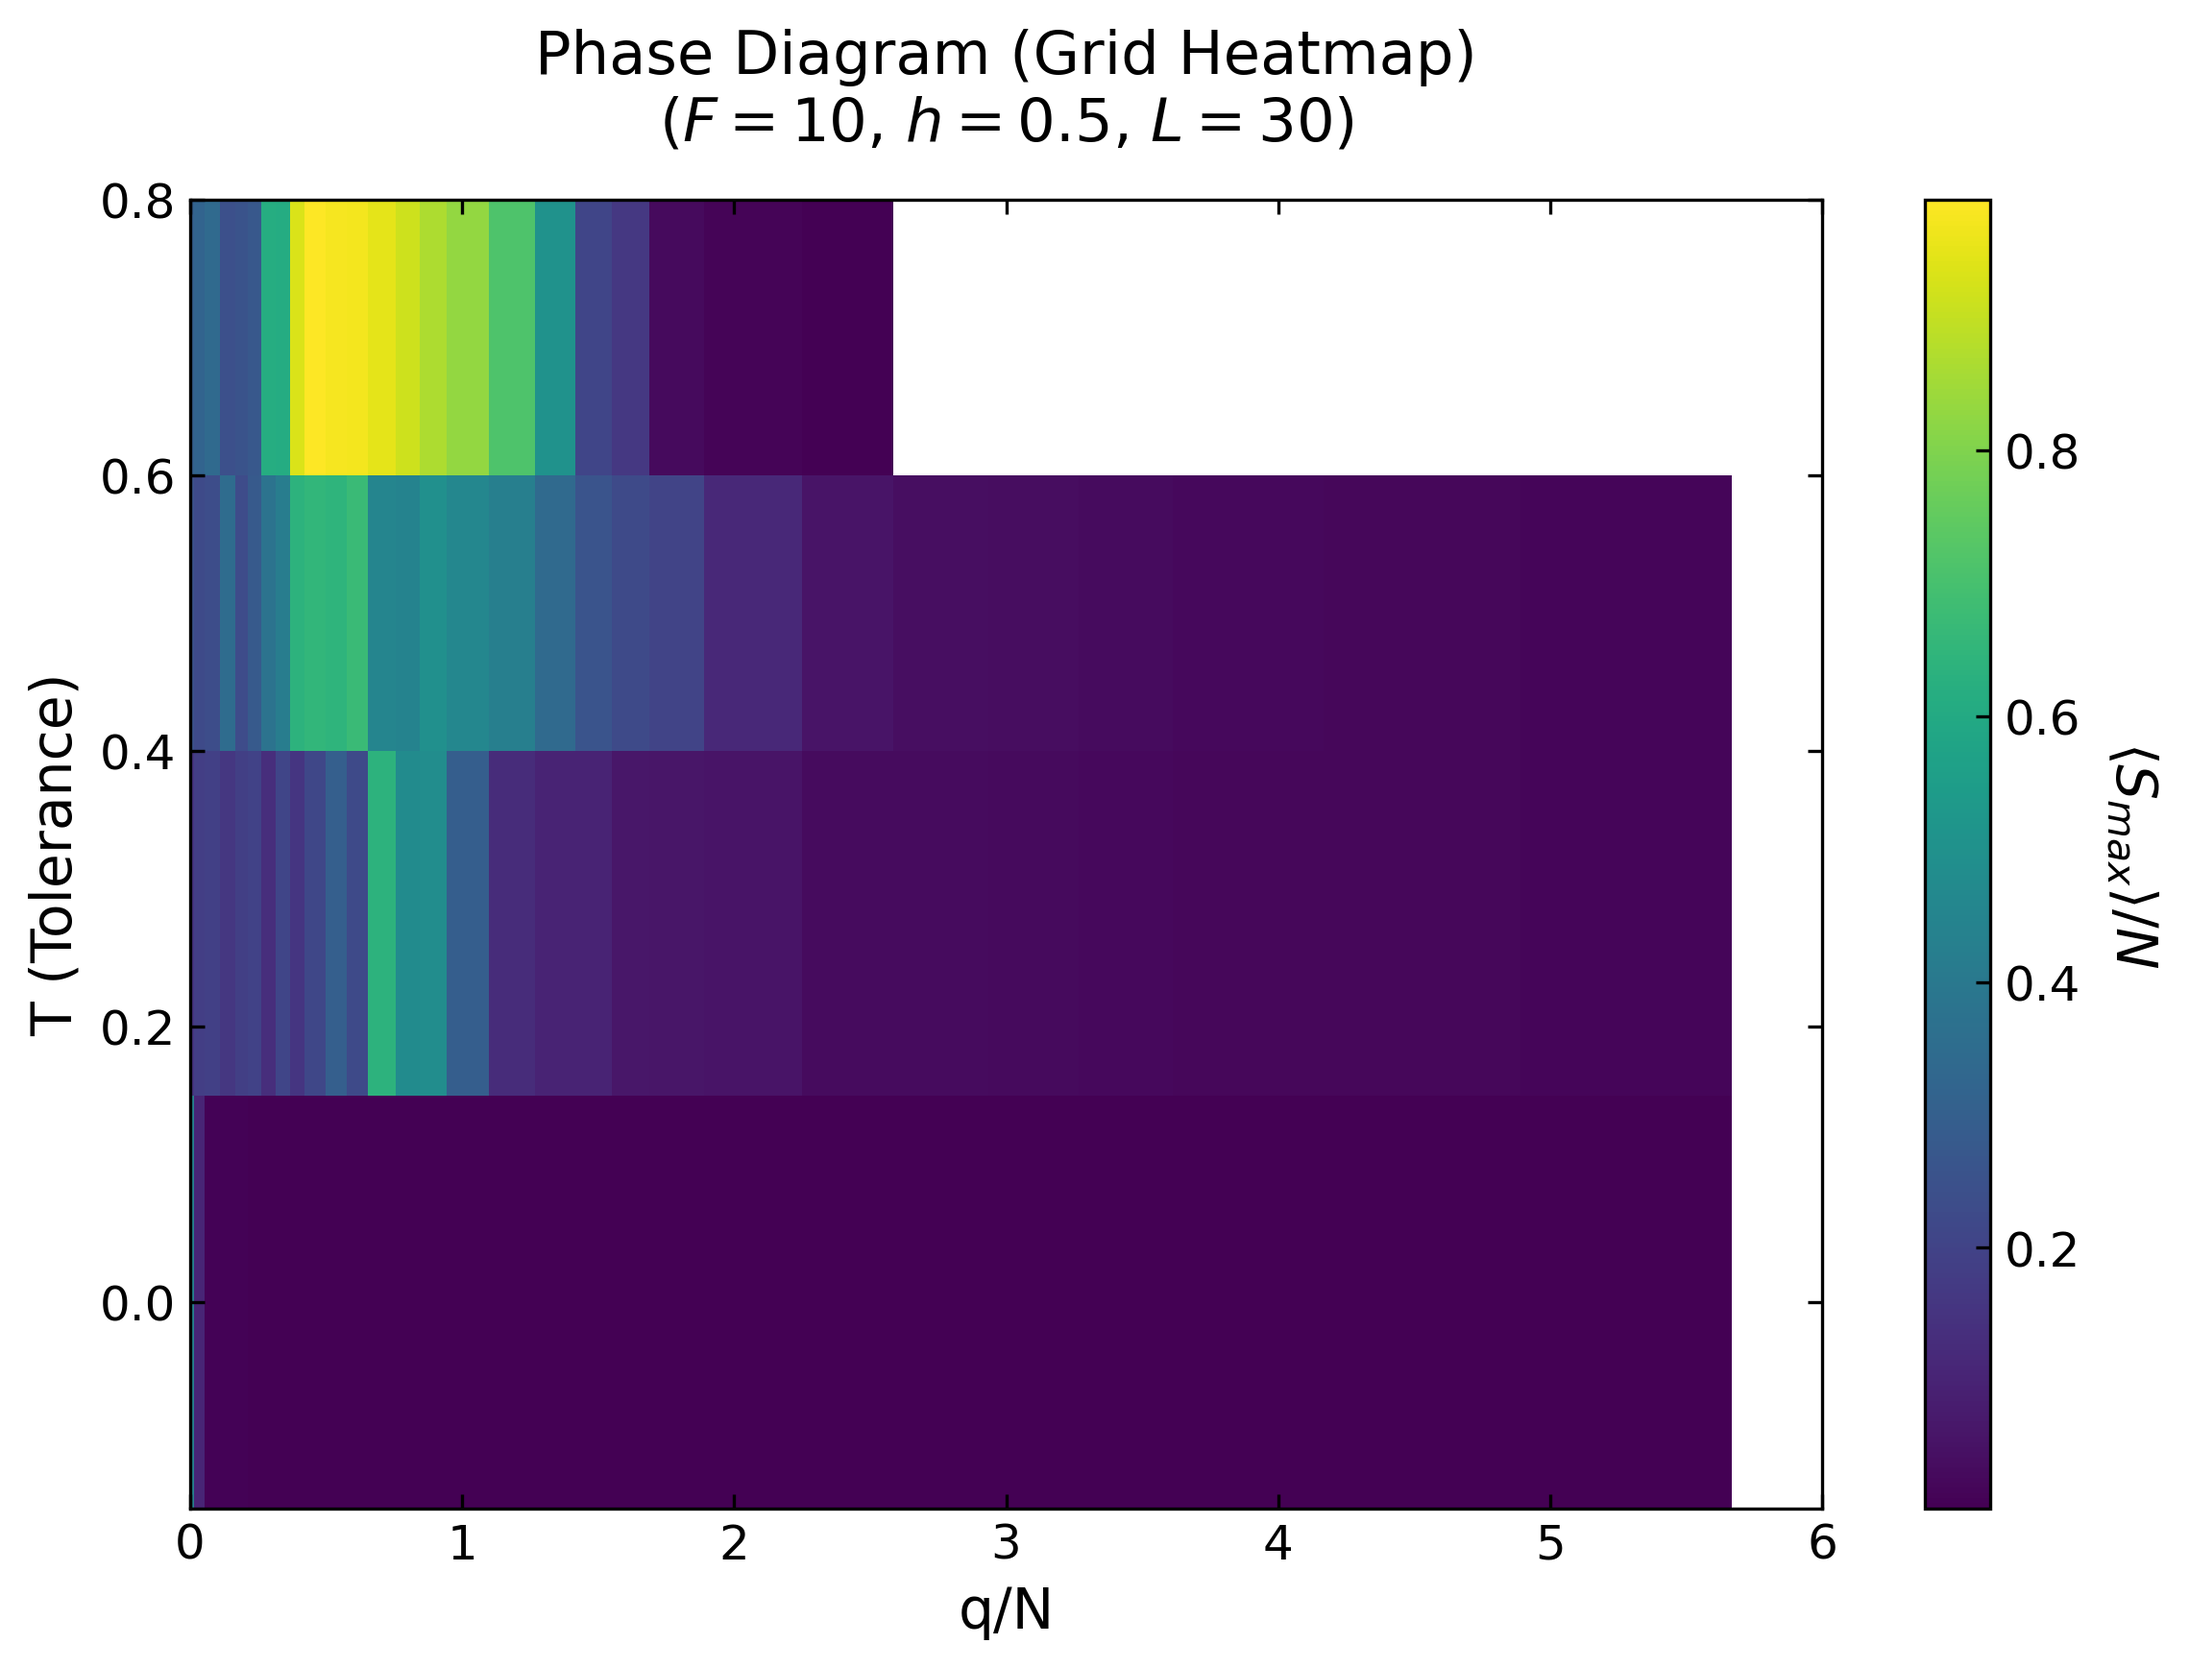
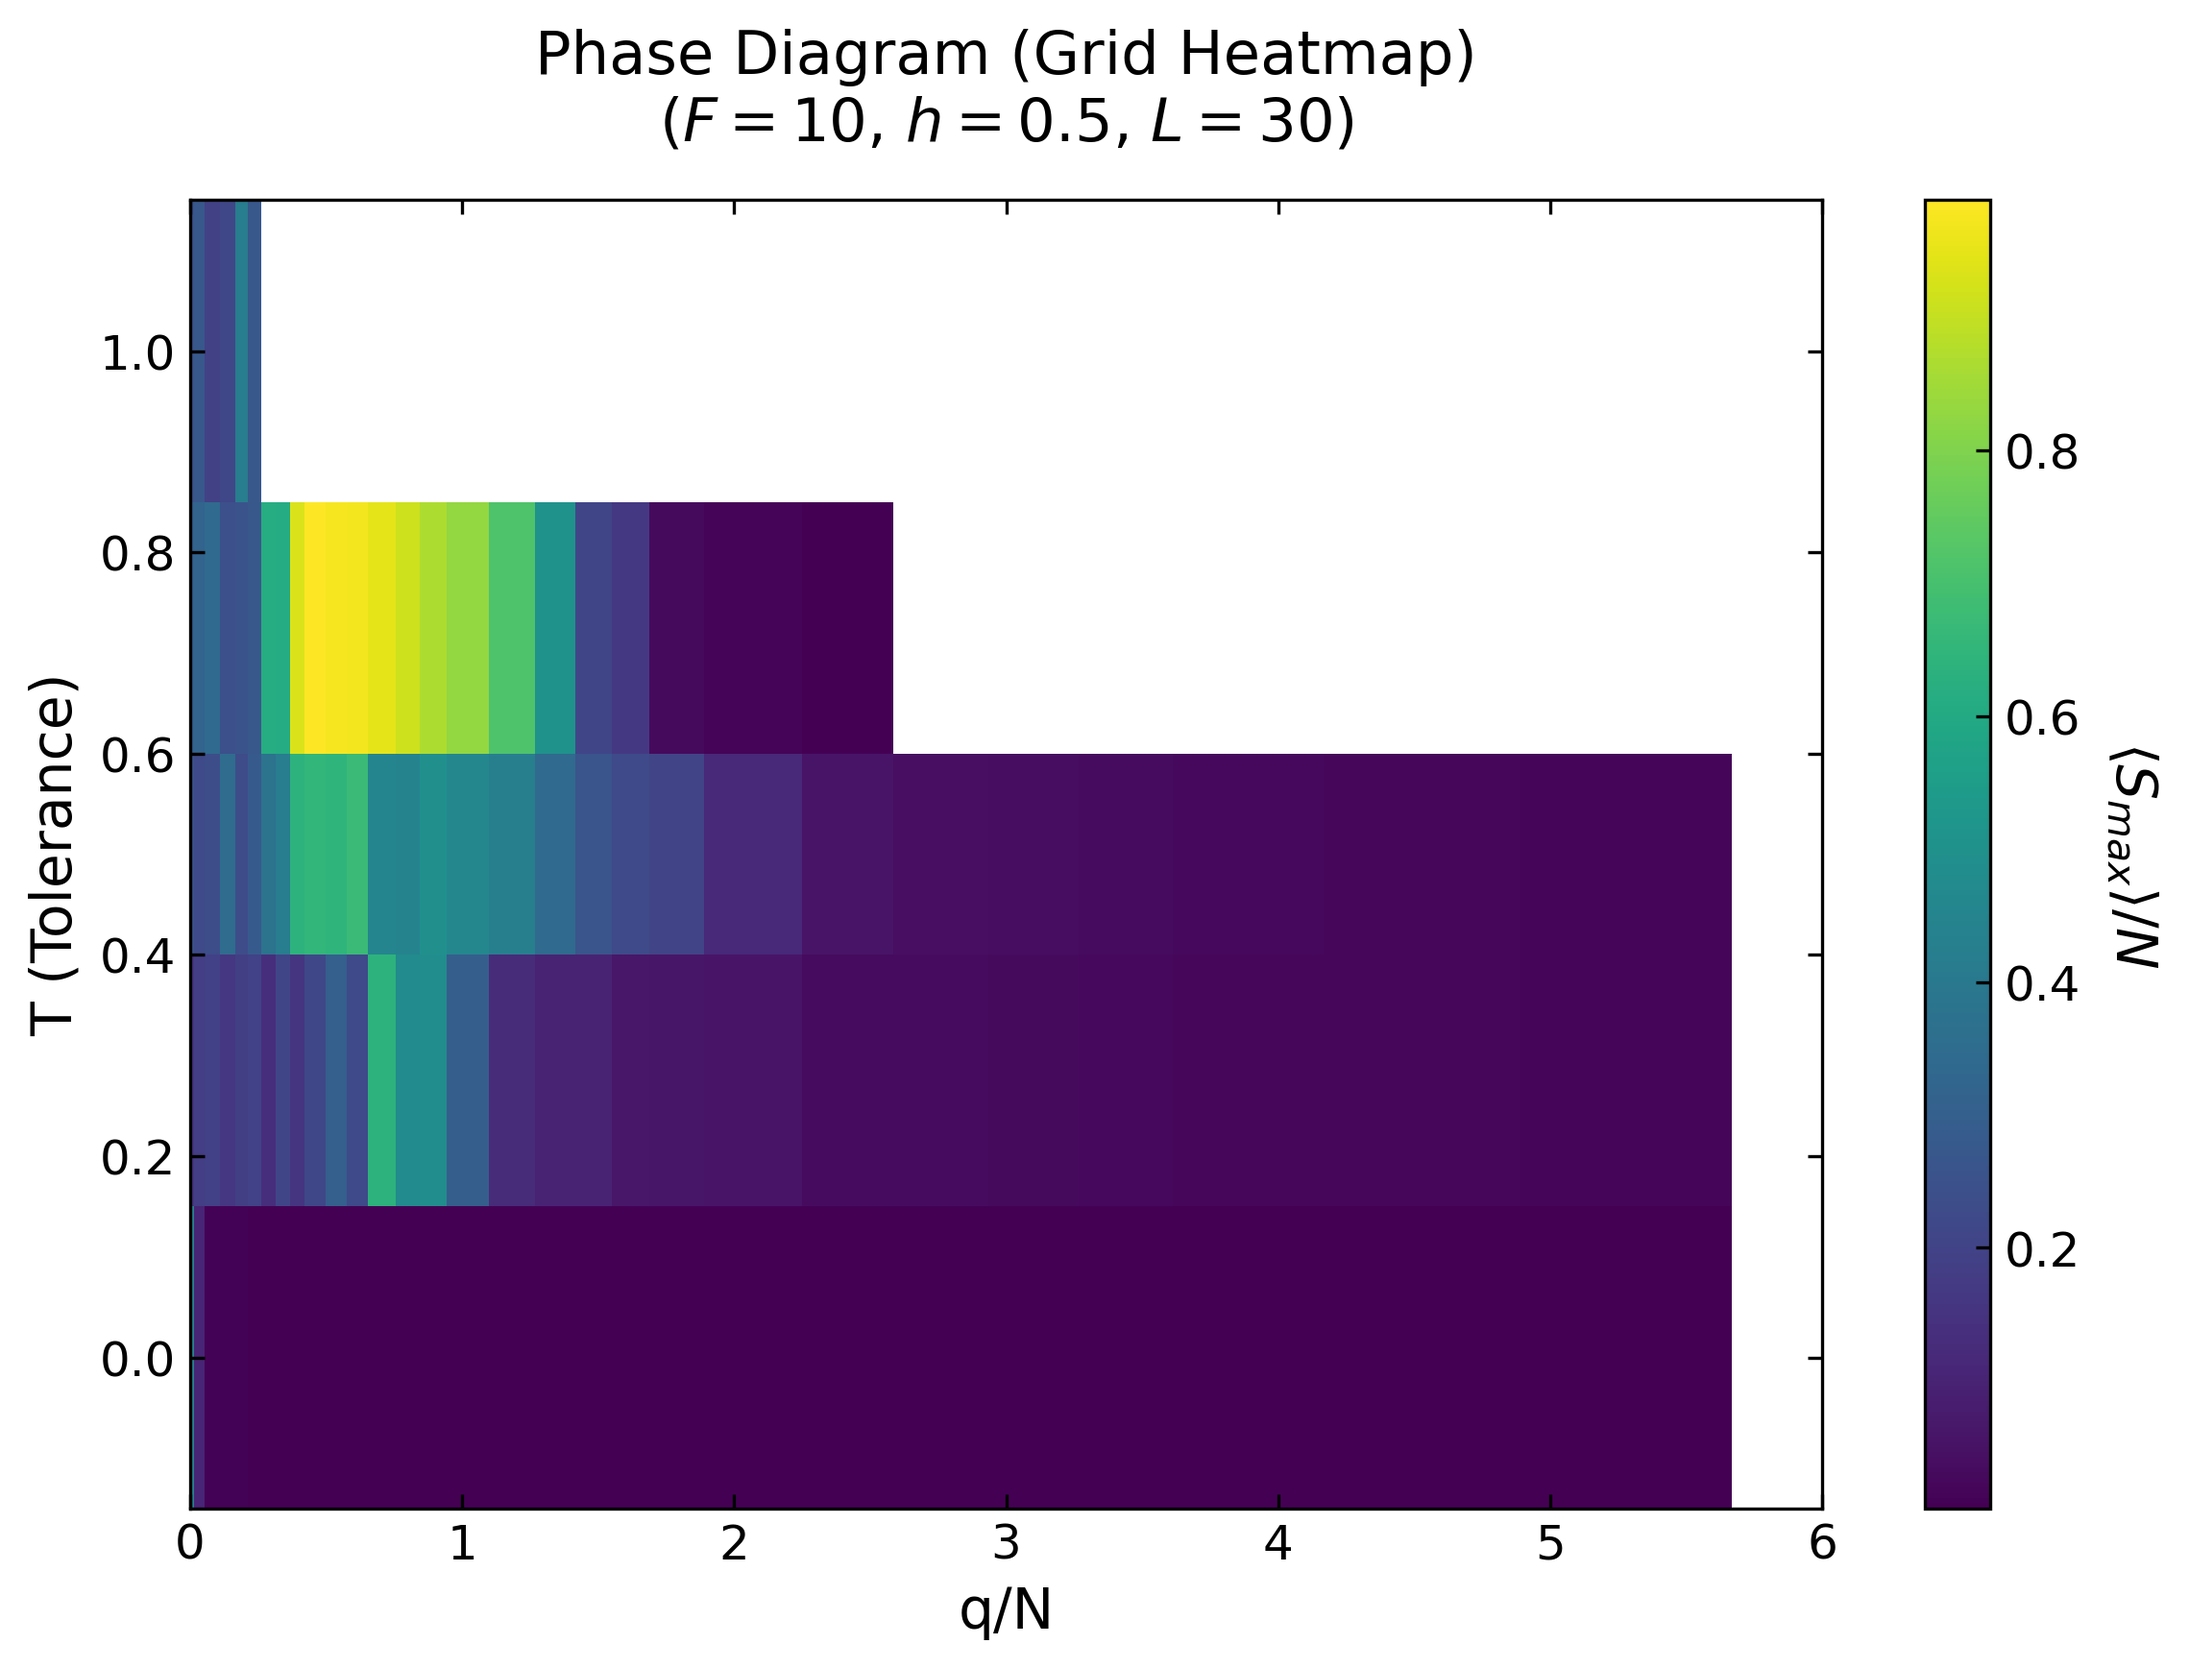
saving before starting small simulation for T=1 to show schelling properties

Changed region(s): [[0.0312, 0.0933, 0.81, 0.5907], [0.0312, 0.6528, 0.2804, 0.7461], [0.0312, 0.7772, 0.0935, 0.8394]]

diff --git a/src/visualization/task3_plotter.py b/src/visualization/task3_plotter.py
@@ -123,7 +123,7 @@ def main():
             plt.xlabel('q/N')
             plt.ylabel(r'$\langle S_{max} \rangle / N$')
             plt.title(f'Phase Transition on Schelling-Axelrod Model\n($F={target_F}$, $h={h1}$)', fontsize=15, pad=15)
-            plt.xlim(0, 6)
+            plt.xlim(0, 0.1)
             plt.ylim(0, 1.05)
             plt.legend(loc='best', framealpha=1.0, edgecolor='black')
             plt.tight_layout()
